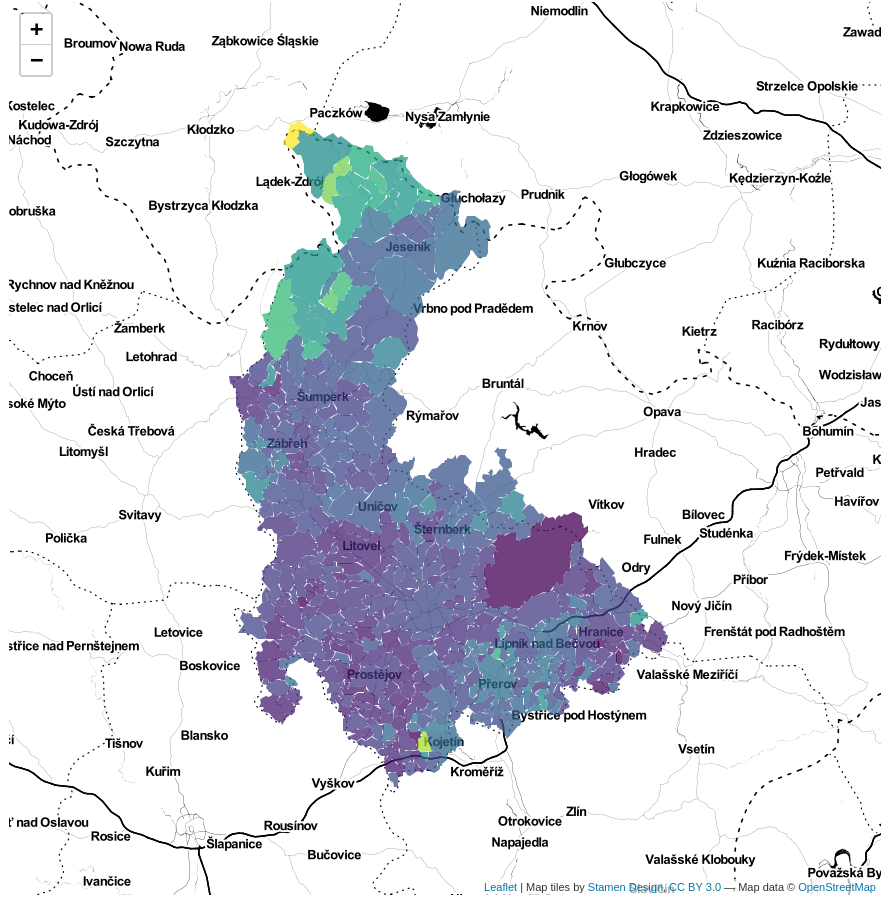
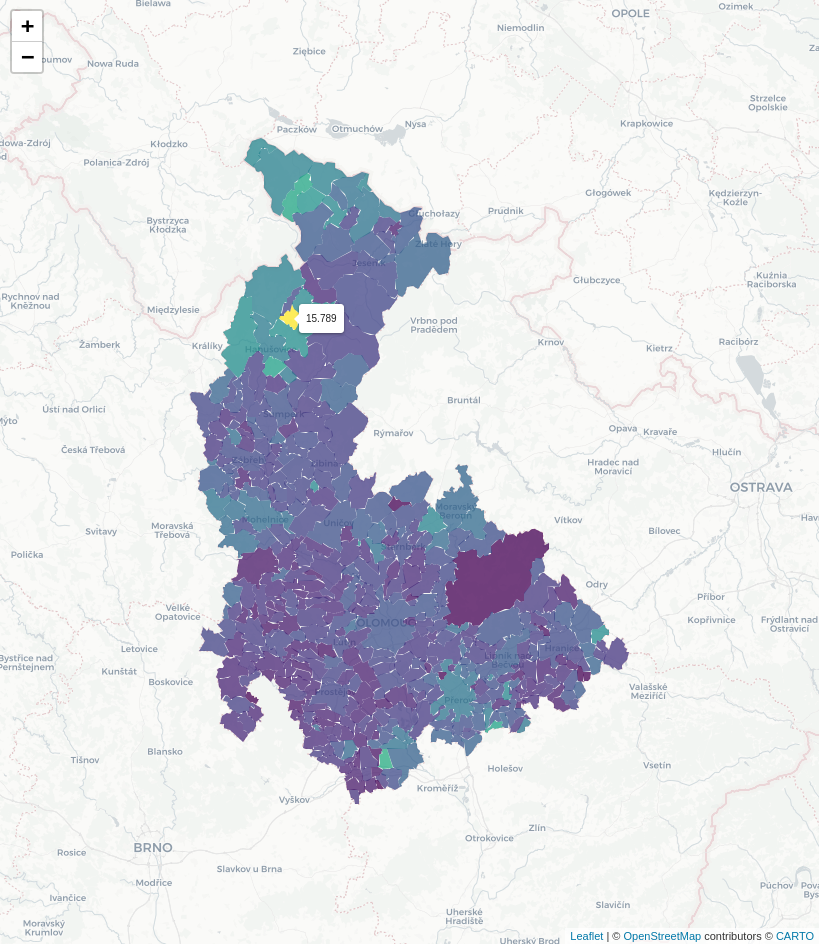
deprecating stamen toner basemap

diff --git a/NEWS.md b/NEWS.md
@@ -1,7 +1,10 @@
 ## version 1.2.1 (2024-03-04)
 
  - documentation updated in line with current roxygen2 and pkgdown standards
+ 
  - github actions updated to current standards
+ 
+ - minor update of the vignette / removing defunct Stamen Toner basemap
 
 ## version 1.12.0 (2023-10-29)
 
